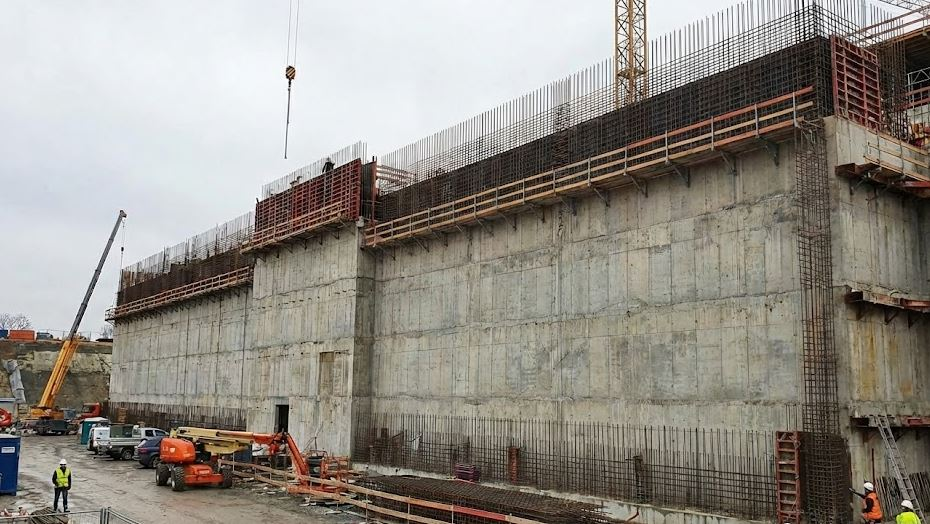
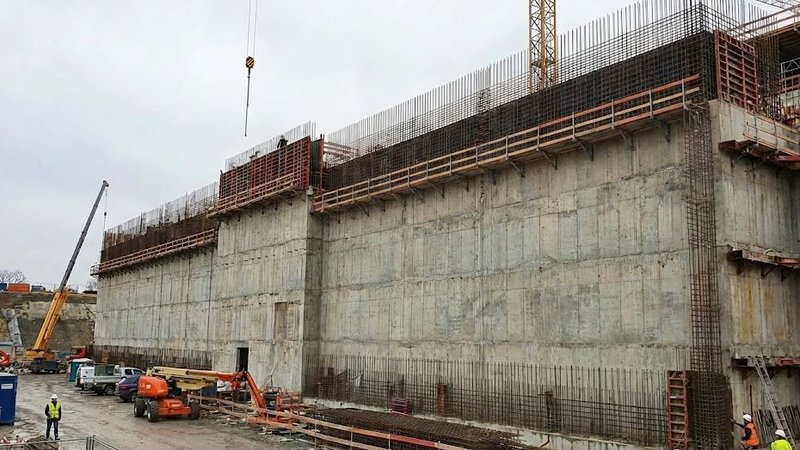
Updates

diff --git a/util/optimize_images.py b/util/optimize_images.py
@@ -1,0 +1,268 @@
+#!/usr/bin/env python3
+"""
+Image Optimizer for Web
+-----------------------
+Resizes images to a maximum width and optimizes for fast web loading.
+Creates backups of original files before processing.
+
+Usage:
+    python optimize_images.py
+    python optimize_images.py <folder_path> [--max-width 800] [--quality 85]
+"""
+
+import os
+import sys
+import shutil
+import argparse
+from pathlib import Path
+from datetime import datetime
+
+try:
+    from PIL import Image
+except ImportError:
+    print("Error: Pillow is required. Install with: pip install Pillow")
+    sys.exit(1)
+
+
+# Supported image formats
+SUPPORTED_FORMATS = {'.jpg', '.jpeg', '.png', '.webp', '.gif', '.bmp', '.tiff', '.tif'}
+
+
+def create_backup_folder(source_folder: Path) -> Path:
+    """Create a timestamped backup subfolder."""
+    timestamp = datetime.now().strftime("%Y%m%d_%H%M%S")
+    backup_folder = source_folder / f"backup_originals_{timestamp}"
+    backup_folder.mkdir(exist_ok=True)
+    return backup_folder
+
+
+def get_image_files(folder: Path) -> list[Path]:
+    """Get all supported image files in the folder (non-recursive)."""
+    images = []
+    for file in folder.iterdir():
+        if file.is_file() and file.suffix.lower() in SUPPORTED_FORMATS:
+            images.append(file)
+    return sorted(images)
+
+
+def optimize_image(
+    image_path: Path,
+    max_width: int = 800,
+    quality: int = 85,
+    convert_to_webp: bool = False
+) -> dict:
+    """
+    Optimize a single image for web use.
+    
+    Returns dict with optimization results.
+    """
+    original_size = image_path.stat().st_size
+    
+    with Image.open(image_path) as img:
+        original_dimensions = img.size
+        
+        # Convert RGBA to RGB for JPEG (preserve alpha for PNG/WebP)
+        if img.mode == 'RGBA' and image_path.suffix.lower() in {'.jpg', '.jpeg'}:
+            # Create white background and paste image
+            background = Image.new('RGB', img.size, (255, 255, 255))
+            background.paste(img, mask=img.split()[3])
+            img = background
+        elif img.mode == 'P':
+            # Convert palette mode to RGB/RGBA
+            img = img.convert('RGBA' if 'transparency' in img.info else 'RGB')
+        elif img.mode not in ('RGB', 'RGBA', 'L'):
+            img = img.convert('RGB')
+        
+        # Calculate new dimensions (maintain aspect ratio)
+        width, height = img.size
+        if width > max_width:
+            ratio = max_width / width
+            new_width = max_width
+            new_height = int(height * ratio)
+            img = img.resize((new_width, new_height), Image.LANCZOS)
+            resized = True
+        else:
+            new_width, new_height = width, height
+            resized = False
+        
+        # Determine output format and settings
+        suffix = image_path.suffix.lower()
+        save_kwargs = {}
+        
+        if suffix in {'.jpg', '.jpeg'}:
+            save_kwargs = {
+                'format': 'JPEG',
+                'quality': quality,
+                'optimize': True,
+                'progressive': True,  # Progressive JPEG for faster perceived loading
+            }
+        elif suffix == '.png':
+            # For PNG, use compression but maintain quality
+            save_kwargs = {
+                'format': 'PNG',
+                'optimize': True,
+            }
+            # If no transparency, convert to RGB for smaller size
+            if img.mode == 'RGBA':
+                # Check if image actually uses transparency
+                if img.split()[3].getextrema() == (255, 255):
+                    img = img.convert('RGB')
+        elif suffix == '.webp':
+            save_kwargs = {
+                'format': 'WEBP',
+                'quality': quality,
+                'method': 6,  # Highest compression effort
+            }
+        elif suffix == '.gif':
+            save_kwargs = {
+                'format': 'GIF',
+                'optimize': True,
+            }
+        else:
+            # Convert other formats to JPEG
+            if img.mode == 'RGBA':
+                background = Image.new('RGB', img.size, (255, 255, 255))
+                background.paste(img, mask=img.split()[3])
+                img = background
+            save_kwargs = {
+                'format': 'JPEG',
+                'quality': quality,
+                'optimize': True,
+                'progressive': True,
+            }
+        
+        # Save optimized image
+        img.save(image_path, **save_kwargs)
+    
+    new_size = image_path.stat().st_size
+    
+    return {
+        'original_size': original_size,
+        'new_size': new_size,
+        'original_dimensions': original_dimensions,
+        'new_dimensions': (new_width, new_height),
+        'resized': resized,
+        'savings_percent': (1 - new_size / original_size) * 100 if original_size > 0 else 0
+    }
+
+
+def format_size(size_bytes: int) -> str:
+    """Format file size in human-readable format."""
+    for unit in ['B', 'KB', 'MB', 'GB']:
+        if size_bytes < 1024:
+            return f"{size_bytes:.1f} {unit}"
+        size_bytes /= 1024
+    return f"{size_bytes:.1f} TB"
+
+
+def main():
+    parser = argparse.ArgumentParser(
+        description='Optimize images for web use with backup.',
+        formatter_class=argparse.RawDescriptionHelpFormatter,
+        epilog="""
+Examples:
+    python optimize_images.py
+    python optimize_images.py ./photos
+    python optimize_images.py ./images --max-width 1200 --quality 80
+    python optimize_images.py ./assets --no-backup
+        """
+    )
+    parser.add_argument('folder', type=str, nargs='?', default=None,
+                        help='Path to folder containing images (default: script location)')
+    parser.add_argument('--max-width', type=int, default=800, 
+                        help='Maximum width in pixels (default: 800)')
+    parser.add_argument('--quality', type=int, default=85,
+                        help='JPEG/WebP quality 1-100 (default: 85)')
+    parser.add_argument('--no-backup', action='store_true',
+                        help='Skip creating backup of original files')
+    
+    args = parser.parse_args()
+    
+    # Validate arguments
+    if args.folder is None:
+        # Default to the folder where the script is located
+        folder = Path(__file__).parent.resolve()
+    else:
+        folder = Path(args.folder).resolve()
+    if not folder.exists():
+        print(f"Error: Folder '{folder}' does not exist.")
+        sys.exit(1)
+    if not folder.is_dir():
+        print(f"Error: '{folder}' is not a directory.")
+        sys.exit(1)
+    
+    if not 1 <= args.quality <= 100:
+        print("Error: Quality must be between 1 and 100.")
+        sys.exit(1)
+    
+    if args.max_width < 1:
+        print("Error: Max width must be at least 1 pixel.")
+        sys.exit(1)
+    
+    # Find images
+    images = get_image_files(folder)
+    if not images:
+        print(f"No supported images found in '{folder}'")
+        print(f"Supported formats: {', '.join(sorted(SUPPORTED_FORMATS))}")
+        sys.exit(0)
+    
+    print(f"\n{'='*60}")
+    print(f"Image Optimizer for Web")
+    print(f"{'='*60}")
+    print(f"Folder: {folder}")
+    print(f"Images found: {len(images)}")
+    print(f"Max width: {args.max_width}px")
+    print(f"Quality: {args.quality}")
+    print(f"{'='*60}\n")
+    
+    # Create backup
+    if not args.no_backup:
+        backup_folder = create_backup_folder(folder)
+        print(f"Creating backup in: {backup_folder.name}/")
+        for img_path in images:
+            shutil.copy2(img_path, backup_folder / img_path.name)
+        print(f"Backed up {len(images)} files.\n")
+    
+    # Process images
+    total_original = 0
+    total_new = 0
+    results = []
+    
+    print("Optimizing images...")
+    print("-" * 60)
+    
+    for i, img_path in enumerate(images, 1):
+        try:
+            result = optimize_image(img_path, args.max_width, args.quality)
+            results.append((img_path.name, result))
+            total_original += result['original_size']
+            total_new += result['new_size']
+            
+            status = "resized" if result['resized'] else "optimized"
+            dims = f"{result['new_dimensions'][0]}x{result['new_dimensions'][1]}"
+            savings = f"{result['savings_percent']:.1f}%"
+            
+            print(f"[{i}/{len(images)}] {img_path.name}")
+            print(f"         {status} to {dims}, saved {savings}")
+            
+        except Exception as e:
+            print(f"[{i}/{len(images)}] {img_path.name}")
+            print(f"         ERROR: {e}")
+    
+    # Summary
+    print("\n" + "=" * 60)
+    print("SUMMARY")
+    print("=" * 60)
+    print(f"Images processed: {len(results)}/{len(images)}")
+    print(f"Original total:   {format_size(total_original)}")
+    print(f"Optimized total:  {format_size(total_new)}")
+    print(f"Total saved:      {format_size(total_original - total_new)}")
+    if total_original > 0:
+        print(f"Reduction:        {(1 - total_new/total_original)*100:.1f}%")
+    if not args.no_backup:
+        print(f"\nOriginal files backed up to: {backup_folder.name}/")
+    print("=" * 60 + "\n")
+
+
+if __name__ == '__main__':
+    main()

diff --git a/util/README optimize_images.md b/util/README optimize_images.md
@@ -1,0 +1,96 @@
+# Image Optimizer for Web
+
+A Python script that optimizes images for fast web loading. Automatically resizes, compresses, and backs up your images.
+
+## Features
+
+- **Automatic backup** – Copies originals to a timestamped subfolder before processing
+- **Smart resizing** – Scales images to max width while preserving aspect ratio
+- **Web-optimized compression** – Progressive JPEGs, optimized PNGs
+- **Batch processing** – Handles all images in a folder at once
+- **Detailed reporting** – Shows file sizes and total savings
+
+## Supported Formats
+
+JPG, JPEG, PNG, WebP, GIF, BMP, TIFF
+
+## Installation
+
+Requires Python 3.9+ and Pillow:
+
+```bash
+pip install Pillow
+```
+
+## Usage
+
+Place the script in your images folder and run:
+
+```bash
+python optimize_images.py
+```
+
+Or specify a folder:
+
+```bash
+python optimize_images.py /path/to/images
+```
+
+### Options
+
+| Option | Default | Description |
+|--------|---------|-------------|
+| `folder` | Script location | Path to folder containing images |
+| `--max-width` | 800 | Maximum width in pixels |
+| `--quality` | 85 | JPEG/WebP quality (1-100) |
+| `--no-backup` | False | Skip creating backup |
+
+### Examples
+
+```bash
+# Use all defaults (800px, quality 85, backup enabled)
+python optimize_images.py
+
+# Custom max width
+python optimize_images.py --max-width 1200
+
+# Custom quality (lower = smaller files)
+python optimize_images.py --quality 75
+
+# Process specific folder without backup
+python optimize_images.py ./assets --no-backup
+
+# Full custom settings
+python optimize_images.py C:\Photos --max-width 1920 --quality 90
+```
+
+## Output
+
+The script creates a backup folder named `backup_originals_YYYYMMDD_HHMMSS` and prints a summary:
+
+```
+============================================================
+SUMMARY
+============================================================
+Images processed: 12/12
+Original total:   24.5 MB
+Optimized total:  4.2 MB
+Total saved:      20.3 MB
+Reduction:        82.9%
+
+Original files backed up to: backup_originals_20241212_143022/
+============================================================
+```
+
+## Quality Guidelines
+
+| Quality | Use Case |
+|---------|----------|
+| 95 | Photography portfolios, print-quality |
+| 85 | General web use (recommended) |
+| 75 | Thumbnails, previews |
+| 60 | Maximum compression, acceptable quality |
+
+## License
+
+MIT
